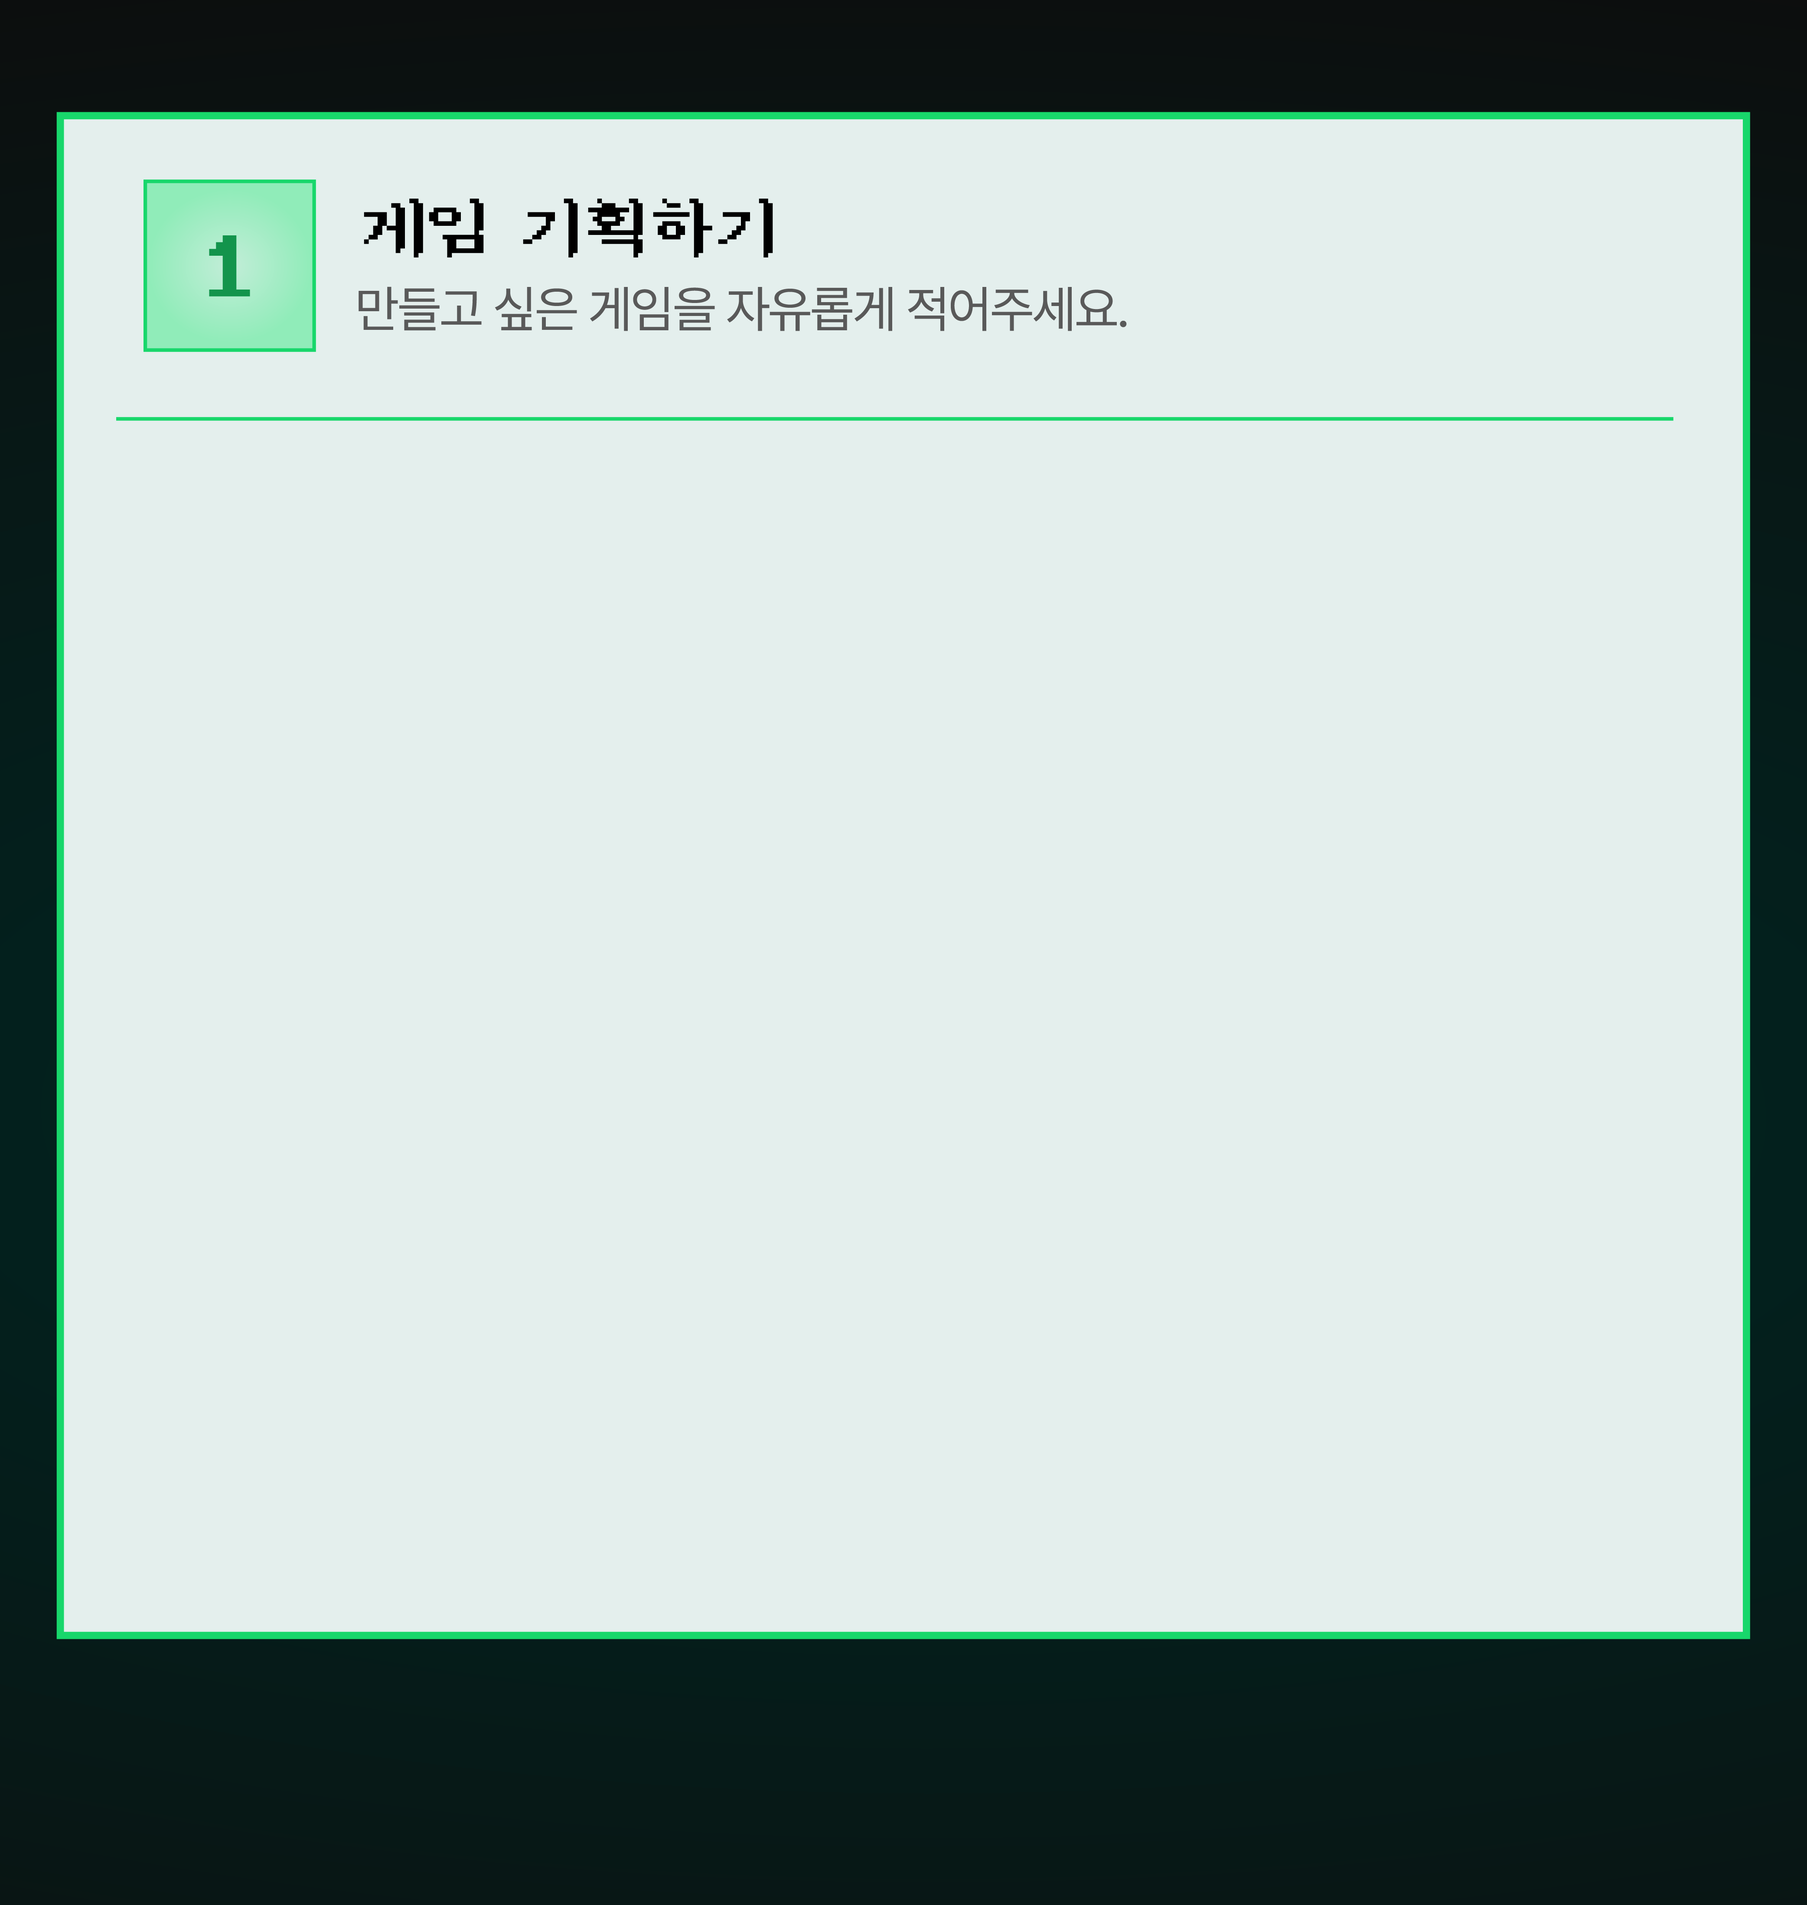
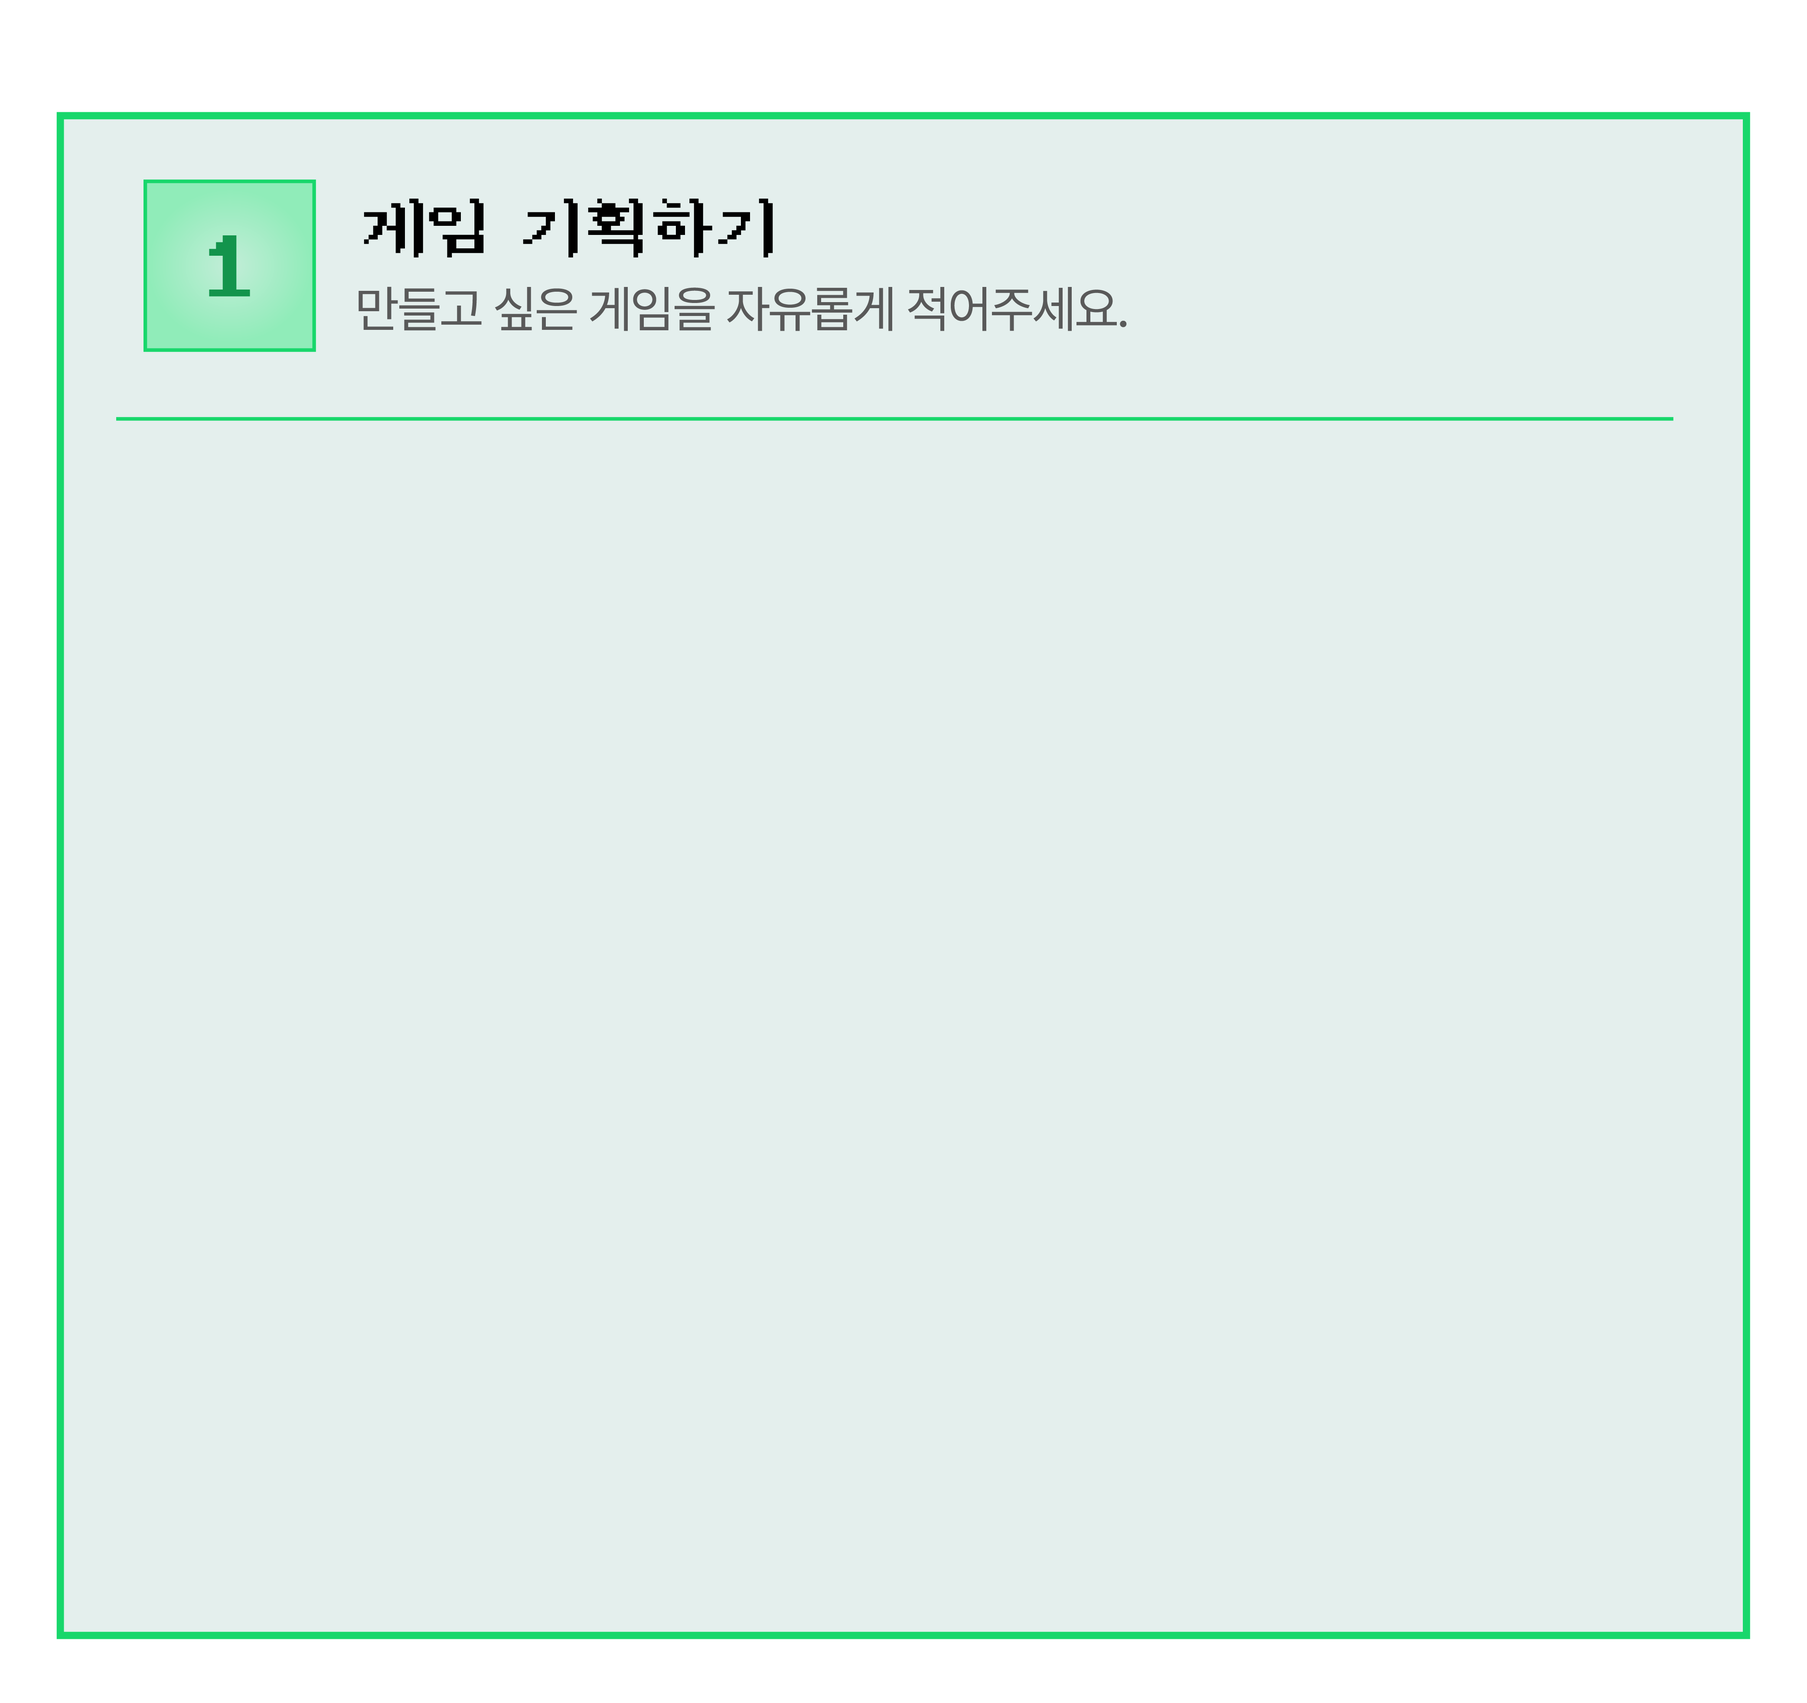
배경 게임을 1945 스트라이커즈 스타일로 개편
- '게임 배경 끄기' 버튼 제거 (CSS/HTML/JS 전부 정리)
- HUD를 좌측 상단 → 본문 오른쪽 여백으로 이동, 아케이드식 패널로 재구성
  (1P 스코어 / STAGE / POWER Lv + 게이지 / BOMB), 화면 1320px 이상에서만 표시
- 배경을 초록 지형 → 푸른 바다로 변경 (심해 그라데이션, 흰 포말, 모래섬·여울)
- 적기를 1945풍으로 교체 (플라잉윙 폭격기 + 흰색 전투기), 대형기는 유도탄 발사
- 무기강화 아이템 P / 폭탄 아이템 B 드랍 추가
  P 획득 시 Lv1~5 로 탄 패턴·연사 강화, 적기 접근 시 폭탄 자동 발동

Changed region(s): [[0.0, 0.0, 1.0, 1.0]]

diff --git a/index.html b/index.html
@@ -46,19 +46,37 @@ body{
   background:repeating-linear-gradient(to bottom, rgba(0,0,0,.16) 0 1px, transparent 1px 3px);
   opacity:.45;
 }
+/* ── 아케이드 HUD (본문 오른쪽) ────────────────── */
 #hud{
-  position:fixed; left:16px; top:16px; z-index:3; pointer-events:none;
-  font-family:var(--font); font-size:12px; font-weight:700; letter-spacing:2px;
-  color:var(--neon); text-shadow:0 0 10px rgba(24,215,107,.65); line-height:1.9;
+  display:none;               /* 본문 옆에 자리가 있을 때만 표시 (아래 미디어쿼리) */
+  position:fixed; top:18px; z-index:3; pointer-events:none;
+  width:132px;
+  font-family:ui-monospace,'Consolas','Menlo',monospace;
+  font-size:12px; font-weight:700; letter-spacing:1px; line-height:1.6;
+  color:#DCEEF7; text-shadow:0 0 8px rgba(10,58,92,.9), 0 1px 0 #02121F;
 }
-#hud .sub{ font-size:11px; font-weight:500; color:#7FE0AB; opacity:.7; letter-spacing:1px; }
-#gameToggle{
-  position:fixed; right:16px; bottom:16px; z-index:5;
-  font-family:var(--font); font-size:12px; font-weight:700; letter-spacing:.5px;
-  color:var(--neon); background:rgba(6,26,24,.92);
-  border:2px solid var(--neon); border-radius:0; padding:10px 14px; cursor:pointer;
+#hud .row{ display:flex; justify-content:space-between; align-items:baseline; }
+#hud .k{ color:#8FC4E4; font-weight:500; font-size:10px; letter-spacing:2px; }
+#hud .v{ color:#FFF3C4; font-size:14px; }
+#hud .v.stage{ color:#FF9E45; }
+#hud .blk{ margin-top:10px; }
+#hud .gauge{
+  margin-top:4px; height:9px; width:100%;
+  background:rgba(3,24,40,.85); border:1px solid #2E6A90; box-shadow:0 0 8px rgba(10,58,92,.8);
 }
-#gameToggle:hover{ background:var(--neon); color:#04120D; }
+#hud .gauge i{
+  display:block; height:100%; width:20%;
+  background:linear-gradient(to right,#18D76B,#B9F24D,#FFE066);
+  transition:width .18s;
+}
+#hud .sub{
+  margin-top:12px; font-size:9px; font-weight:500;
+  color:#6FA6C6; opacity:.75; letter-spacing:2px;
+}
+/* 본문(최대 1000px) 바로 오른쪽 여백에 붙여서 표시 */
+@media (min-width:1320px){
+  #hud{ display:block; left:calc(50% + 516px); }
+}
 
 /* ── 스테이지 ─────────────────────────────────── */
 .stage{
@@ -211,8 +229,14 @@ input::placeholder{ color:#9DB2AA; }
 
 <canvas id="sky" aria-hidden="true"></canvas>
 <div id="scan" aria-hidden="true"></div>
-<div id="hud" aria-hidden="true">SCORE <span id="score">000000</span><br><span class="sub">MOVE : MOUSE</span></div>
-<button id="gameToggle" type="button">게임 배경 끄기</button>
+<div id="hud" aria-hidden="true">
+  <div class="row"><span class="k">1P</span><span class="v" id="score">000000</span></div>
+  <div class="row blk"><span class="k">STAGE</span><span class="v stage" id="stage">1-1</span></div>
+  <div class="row blk"><span class="k">POWER</span><span class="v" id="plv">Lv1</span></div>
+  <div class="gauge"><i id="pbar"></i></div>
+  <div class="row blk"><span class="k">BOMB</span><span class="v" id="bomb">2</span></div>
+  <div class="sub">MOVE : MOUSE</div>
+</div>
 
 <main class="stage">
 
@@ -492,11 +516,18 @@ input::placeholder{ color:#9DB2AA; }
 /* ══════════ 2. 배경 슈팅게임 (1945 STRIKER) ══════════ */
 (function(){
   var cvs = document.getElementById('sky'), ctx = cvs.getContext('2d');
-  var toggle = document.getElementById('gameToggle'), scoreEl = document.getElementById('score');
+  var hudEl   = document.getElementById('hud'),
+      scoreEl = document.getElementById('score'),
+      stageEl = document.getElementById('stage'),
+      plvEl   = document.getElementById('plv'),
+      pbarEl  = document.getElementById('pbar'),
+      bombEl  = document.getElementById('bomb');
   var W=0, H=0, DPR=1, running=true, raf=null, t=0, score=0;
+  var MAXLV=5, pw=1, bombs=2, flash=0;
+  var MONO = "ui-monospace,'Consolas','Menlo',monospace";
   var reduce = window.matchMedia('(prefers-reduced-motion: reduce)').matches;
   var player = { x:0, y:0, tx:0, ty:0, cool:0 };
-  var bullets=[], enemies=[], parts=[], waves=[], isles=[];
+  var bullets=[], ebullets=[], enemies=[], parts=[], waves=[], isles=[], items=[];
 
   function resize(){
     DPR = Math.min(window.devicePixelRatio || 1, 2);
@@ -509,7 +540,8 @@ input::placeholder{ color:#9DB2AA; }
   }
   window.addEventListener('resize', resize); resize();
 
-  for(var i=0;i<70;i++) waves.push({ x:Math.random(), y:Math.random(), w:6+Math.random()*22, s:.35+Math.random()*.9 });
+  for(var i=0;i<95;i++) waves.push({ x:Math.random(), y:Math.random(), w:6+Math.random()*26,
+                                     s:.35+Math.random()*.9, br:Math.random()<.3 });
   function spawnIsle(){
     isles.push({ x:Math.random(), y:-.25, w:40+Math.random()*140, h:30+Math.random()*90, s:.16+Math.random()*.12 });
     if(isles.length>7) isles.shift();
@@ -528,18 +560,71 @@ input::placeholder{ color:#9DB2AA; }
     px(x-1*s,   y+5*s,   2*s, 2*s,   'rgba(24,215,107,.85)');
     if(t % 8 < 4) px(x-0.5*s, y+6.5*s, 1*s, 2*s, 'rgba(230,208,80,.9)');
   }
+  /* 대형기 = 플라잉윙 폭격기 / 소형기 = 흰색 전투기 (1945 스타일) */
   function drawEnemy(e){
-    var s=e.s, c1 = e.big ? '#E6D050' : '#6FBF95', c2 = e.big ? '#A38F1C' : '#2F6D4E';
-    px(e.x-1.5*s, e.y-4*s,   3*s, 9*s,   c1);
-    px(e.x-5*s,   e.y-1*s,   10*s, 2.5*s, c2);
-    px(e.x-3*s,   e.y-4.5*s, 6*s, 1.5*s, c2);
-    px(e.x-1*s,   e.y+1*s,   2*s, 2*s,   '#0B1211');
+    var s=e.s;
+    if(e.big){
+      px(e.x-9*s,   e.y-1*s,   18*s, 3*s,   '#8FA3B0');
+      px(e.x-6*s,   e.y-3.5*s, 12*s, 2.5*s, '#6E838F');
+      px(e.x-2*s,   e.y-5.5*s,  4*s, 4.5*s, '#B7C6CF');
+      px(e.x-9*s,   e.y+2*s,   18*s, 1.5*s, '#46586A');
+      px(e.x-1*s,   e.y+0.5*s,  2*s, 2*s,   '#0A1620');
+      px(e.x-7*s,   e.y+3.5*s,  2*s, 1.5*s, 'rgba(255,158,69,.9)');
+      px(e.x+5*s,   e.y+3.5*s,  2*s, 1.5*s, 'rgba(255,158,69,.9)');
+    }else{
+      px(e.x-1.5*s, e.y-4*s,    3*s, 9*s,   '#D6E2EA');
+      px(e.x-5*s,   e.y-1*s,   10*s, 2.5*s, '#96A9B6');
+      px(e.x-3*s,   e.y-4.5*s,  6*s, 1.5*s, '#96A9B6');
+      px(e.x-4*s,   e.y+3.5*s,  8*s, 1.5*s, '#7C8E9B');
+      px(e.x-1*s,   e.y+1*s,    2*s, 2*s,   '#0A1620');
+      px(e.x-0.5*s, e.y+5*s,    1*s, 2*s,   'rgba(255,158,69,.85)');
+    }
+  }
+  /* 무기강화 · 폭탄 아이템 */
+  function drawItem(it){
+    var on = (t % 26) < 13;
+    var base = it.kind === 'P' ? (on ? '#18D76B' : '#0D7A40') : (on ? '#FF9E45' : '#9E5417');
+    px(it.x-9, it.y-8, 18, 16, base);
+    px(it.x-7, it.y-6, 14, 12, '#04141F');
+    ctx.fillStyle = on ? '#EAFBF2' : base;
+    ctx.font = 'bold 11px ' + MONO;
+    ctx.textAlign = 'center'; ctx.textBaseline = 'middle';
+    ctx.fillText(it.kind, it.x, it.y+1);
+    ctx.textAlign = 'start'; ctx.textBaseline = 'alphabetic';
   }
   function spawnEnemy(){
     var big = Math.random() < 0.16;
     enemies.push({ x:40+Math.random()*(W-80), y:-40, s:big?4.5:3,
                    vy:(big?.9:1.5)+Math.random()*.9, amp:Math.random()*1.6,
-                   ph:Math.random()*6.28, hp:big?4:1, big:big });
+                   ph:Math.random()*6.28, hp:big?4:1, big:big,
+                   fc:60+Math.random()*70 });
+  }
+  /* 파워 레벨별 탄 패턴 : [x오프셋, 좌우속도] */
+  var PATTERN = [
+    [[0,0]],
+    [[-5,0],[5,0]],
+    [[-6,0],[0,0],[6,0]],
+    [[-7,0],[-3,-.9],[3,.9],[7,0]],
+    [[-8,0],[-4,-1.1],[0,0],[4,1.1],[8,0]]
+  ];
+  function shoot(){
+    var pat = PATTERN[Math.min(pw, MAXLV)-1];
+    for(var i=0;i<pat.length;i++)
+      bullets.push({ x:player.x+pat[i][0], y:player.y-14, vx:pat[i][1] });
+  }
+  function useBomb(){
+    if(bombs <= 0) return;
+    bombs--; flash = 18;
+    for(var i=enemies.length-1;i>=0;i--){
+      boom(enemies[i].x, enemies[i].y, 20, '#FFE066');
+      score += enemies[i].big ? 500 : 100;
+      enemies.splice(i,1);
+    }
+    ebullets.length = 0;
+  }
+  function stageLabel(){
+    var n = Math.floor(score/2500);
+    return (1 + Math.floor(n/4)) + '-' + (1 + (n%4));
   }
   function boom(x,y,n,col){
     for(var i=0;i<n;i++) parts.push({ x:x, y:y, vx:(Math.random()-.5)*4.5, vy:(Math.random()-.5)*4.5,
@@ -549,21 +634,23 @@ input::placeholder{ color:#9DB2AA; }
 
   function step(){
     t++;
+    /* ── 푸른 바다 배경 ── */
     var g = ctx.createLinearGradient(0,0,0,H);
-    g.addColorStop(0,'#04100E'); g.addColorStop(.55,'#08211C'); g.addColorStop(1,'#04100E');
+    g.addColorStop(0,'#031A2E'); g.addColorStop(.5,'#0A3E63'); g.addColorStop(1,'#04223A');
     ctx.fillStyle = g; ctx.fillRect(0,0,W,H);
 
     if(t % 150 === 0) spawnIsle();
     for(var k=isles.length-1;k>=0;k--){
       var il = isles[k]; il.y += il.s/H*6;
       if(il.y > 1.3){ isles.splice(k,1); continue; }
-      px(il.x*W-il.w/2, il.y*H, il.w, il.h, 'rgba(19,58,45,.55)');
-      px(il.x*W-il.w/2+6, il.y*H+6, il.w*.6, il.h*.5, 'rgba(28,80,60,.5)');
+      px(il.x*W-il.w/2,    il.y*H,    il.w,     il.h,     'rgba(8,42,68,.60)');   /* 수심 그림자 */
+      px(il.x*W-il.w/2+5,  il.y*H+5,  il.w*.74, il.h*.62, 'rgba(26,80,112,.55)'); /* 얕은 여울 */
+      px(il.x*W-il.w/2+14, il.y*H+12, il.w*.40, il.h*.32, 'rgba(120,140,120,.35)'); /* 모래섬 */
     }
     for(var w0=0;w0<waves.length;w0++){
       var wv = waves[w0]; wv.y += wv.s/H*2.4;
       if(wv.y > 1){ wv.y = -0.02; wv.x = Math.random(); }
-      px(wv.x*W, wv.y*H, wv.w, 2, 'rgba(120,220,175,.10)');
+      px(wv.x*W, wv.y*H, wv.w, 2, wv.br ? 'rgba(200,240,255,.16)' : 'rgba(140,205,240,.09)');
     }
 
     player.x += (player.tx-player.x)*0.16;
@@ -571,12 +658,11 @@ input::placeholder{ color:#9DB2AA; }
     drawPlayer(player.x, player.y, 3.2);
 
     if(--player.cool <= 0){
-      bullets.push({x:player.x-5, y:player.y-14});
-      bullets.push({x:player.x+5, y:player.y-14});
-      player.cool = 9;
+      shoot();
+      player.cool = Math.max(5, 10-pw);
     }
     for(var b=bullets.length-1;b>=0;b--){
-      var bl = bullets[b]; bl.y -= 11;
+      var bl = bullets[b]; bl.y -= 11; bl.x += bl.vx;
       if(bl.y < -20){ bullets.splice(b,1); continue; }
       px(bl.x-1.5, bl.y, 3, 11, '#DFF7E9');
       px(bl.x-1.5, bl.y+3, 3, 8, '#18D76B');
@@ -588,16 +674,51 @@ input::placeholder{ color:#9DB2AA; }
       en.y += en.vy; en.x += Math.sin((t+en.ph*30)/34)*en.amp;
       if(en.y > H+50){ enemies.splice(e0,1); continue; }
       drawEnemy(en);
+
+      /* 대형기는 자기 탄을 쏜다 */
+      if(en.big && en.y > 0 && --en.fc <= 0){
+        en.fc = 70 + Math.random()*60;
+        var dx = player.x-en.x, dy = player.y-en.y, d = Math.sqrt(dx*dx+dy*dy)||1;
+        ebullets.push({ x:en.x, y:en.y+12, vx:dx/d*2.1, vy:dy/d*2.1 });
+      }
+
       for(var b2=bullets.length-1;b2>=0;b2--){
         var bb = bullets[b2];
         if(Math.abs(bb.x-en.x) < en.s*5 && Math.abs(bb.y-en.y) < en.s*5){
           bullets.splice(b2,1); en.hp--; boom(en.x,en.y,4,'#DFF7E9');
           if(en.hp <= 0){
             boom(en.x,en.y, en.big?26:14, en.big?'#E6D050':'#18D76B');
-            score += en.big?500:100; enemies.splice(e0,1);
+            score += en.big?500:100;
+            /* 아이템 드랍 — 대형기는 항상, 소형기는 가끔 */
+            if(en.big)                    items.push({x:en.x, y:en.y, vy:1.15, kind: Math.random()<.35?'B':'P'});
+            else if(Math.random() < .08)  items.push({x:en.x, y:en.y, vy:1.15, kind:'P'});
+            enemies.splice(e0,1);
           }
           break;
         }
+      }
+      /* 적기가 너무 가까우면 폭탄 자동 발동 (배열이 비워지므로 즉시 루프 종료) */
+      if(bombs > 0 && Math.abs(en.x-player.x) < 34 && Math.abs(en.y-player.y) < 34){ useBomb(); break; }
+    }
+
+    /* 적 탄 */
+    for(var eb0=ebullets.length-1;eb0>=0;eb0--){
+      var eb = ebullets[eb0]; eb.x += eb.vx; eb.y += eb.vy;
+      if(eb.y > H+20 || eb.x < -20 || eb.x > W+20){ ebullets.splice(eb0,1); continue; }
+      px(eb.x-2.5, eb.y-2.5, 6, 6, '#FF7A2F');
+      px(eb.x-1,   eb.y-1,   3, 3, '#FFE066');
+    }
+
+    /* 아이템 */
+    for(var q=items.length-1;q>=0;q--){
+      var it = items[q];
+      it.y += it.vy; it.x += Math.sin((t+q*23)/38)*.7;
+      if(it.y > H+30){ items.splice(q,1); continue; }
+      drawItem(it);
+      if(Math.abs(it.x-player.x) < 26 && Math.abs(it.y-player.y) < 26){
+        if(it.kind === 'P'){ if(pw < MAXLV) pw++; }
+        else               { bombs = Math.min(bombs+1, 5); }
+        score += 200; boom(it.x, it.y, 12, '#FFE066'); items.splice(q,1);
       }
     }
     for(var p=parts.length-1;p>=0;p--){
@@ -608,7 +729,20 @@ input::placeholder{ color:#9DB2AA; }
       px(pt.x, pt.y, pt.s, pt.s, pt.c);
       ctx.globalAlpha = 1;
     }
-    scoreEl.textContent = ('000000'+score).slice(-6);
+    /* 폭탄 섬광 */
+    if(flash > 0){
+      flash--;
+      ctx.fillStyle = 'rgba(255,242,200,'+(flash/40)+')';
+      ctx.fillRect(0,0,W,H);
+    }
+
+    if(t % 6 === 0){
+      scoreEl.textContent = ('000000'+score).slice(-6);
+      stageEl.textContent = stageLabel();
+      plvEl.textContent   = 'Lv'+pw;
+      pbarEl.style.width  = (pw/MAXLV*100)+'%';
+      bombEl.textContent  = bombs;
+    }
     raf = requestAnimationFrame(step);
   }
 
@@ -620,18 +754,15 @@ input::placeholder{ color:#9DB2AA; }
   function start(){
     if(raf) return;
     running = true; cvs.style.display='block';
-    document.getElementById('hud').style.display='';
-    toggle.textContent = '게임 배경 끄기';
+    hudEl.style.display = '';
     raf = requestAnimationFrame(step);
   }
   function stop(){
     running = false;
     if(raf){ cancelAnimationFrame(raf); raf=null; }
     ctx.clearRect(0,0,W,H); cvs.style.display='none';
-    document.getElementById('hud').style.display='none';
-    toggle.textContent = '게임 배경 켜기';
+    hudEl.style.display = 'none';
   }
-  toggle.addEventListener('click', function(){ running ? stop() : start(); });
   document.addEventListener('visibilitychange', function(){
     if(document.hidden && raf){ cancelAnimationFrame(raf); raf=null; }
     else if(!document.hidden && running && !raf){ raf = requestAnimationFrame(step); }
